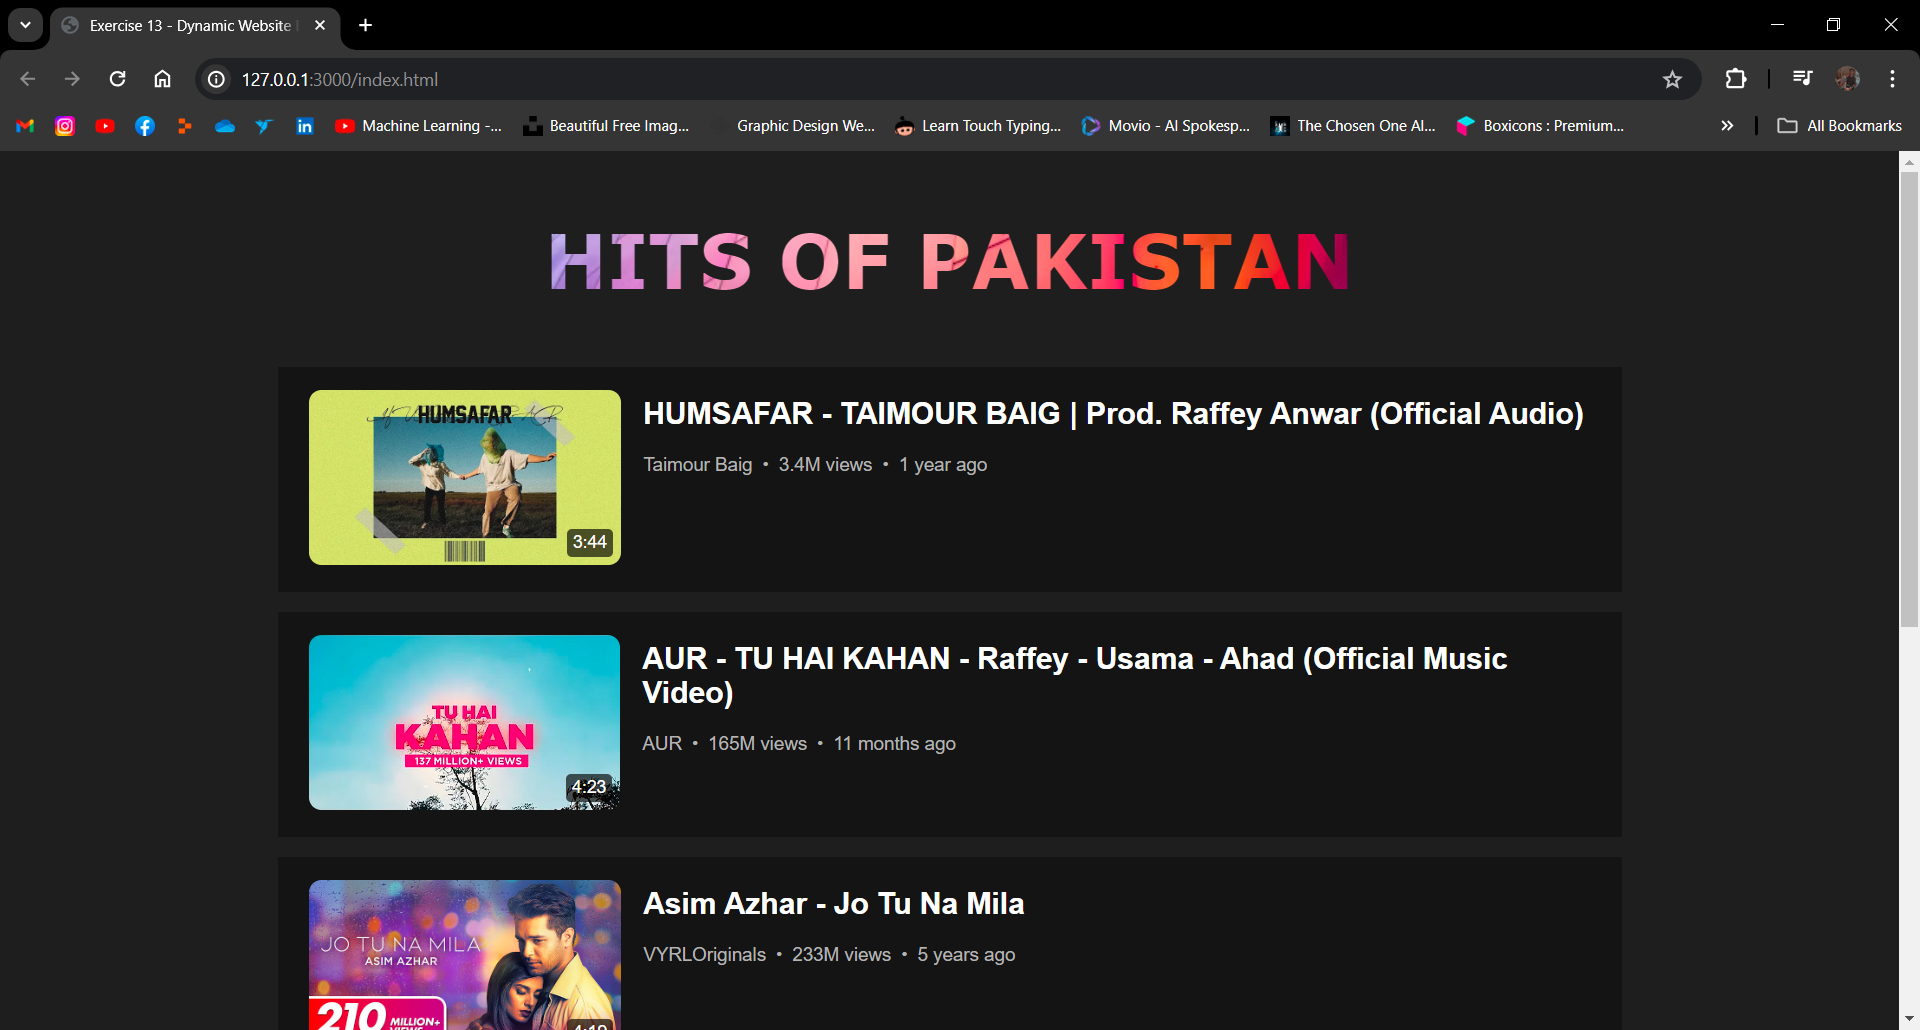
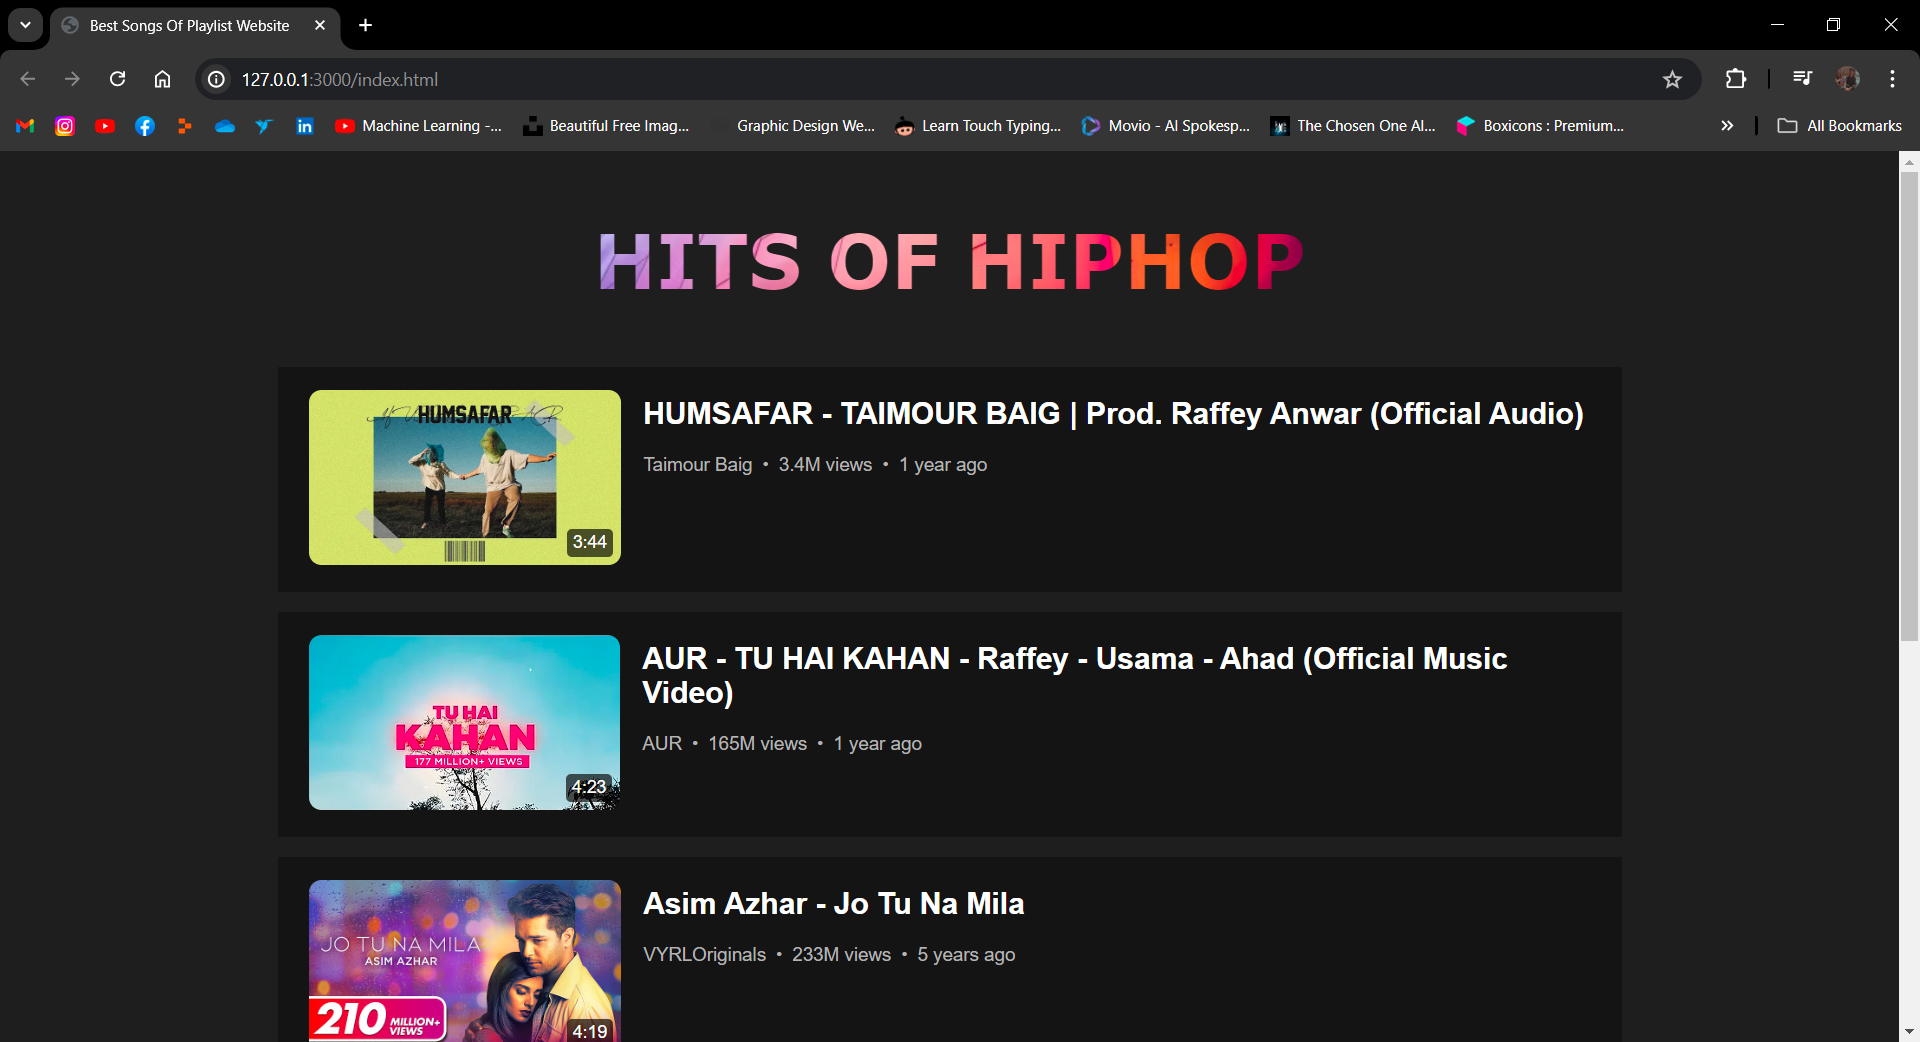
best_songs_of_pakistan_playlist_website

diff --git a/Best Songs Of Pakistan Playlist Website/index.html b/Best Songs Of Pakistan Playlist Website/index.html
@@ -4,12 +4,12 @@
 <head>
     <meta charset="UTF-8">
     <meta name="viewport" content="width=device-width, initial-scale=1.0">
-    <title>Best Songs Of Pakistan Playlist Website</title>
+    <title>Best Songs Of Playlist Website</title>
     <link rel="stylesheet" href="style.css">
 </head>
 
 <body>
-    <h1 class="heading">HITS OF PAKISTAN</h1>
+    <h1 class="heading">HITS OF HIPHOP</h1>
     <div class="container">
 
     </div>

diff --git a/Best Songs Of Pakistan Playlist Website/README.md b/Best Songs Of Pakistan Playlist Website/README.md
@@ -1,5 +1,12 @@
 # Best Songs Of Pakistan Playlist Website
 
+# CODE
+![Alt text](README-IMGS/CODE.png)
+![Alt text](README-IMGS/CODE-1.png)
+![Alt text](README-IMGS/CODE-2.png)
+
+# OUTPUT
+
 ![Alt text](README-IMGS/OUTPUT.png)
 ![Alt text](README-IMGS/OUTPUT-1.png)
 ![Alt text](README-IMGS/OUTPUT-2.png)
